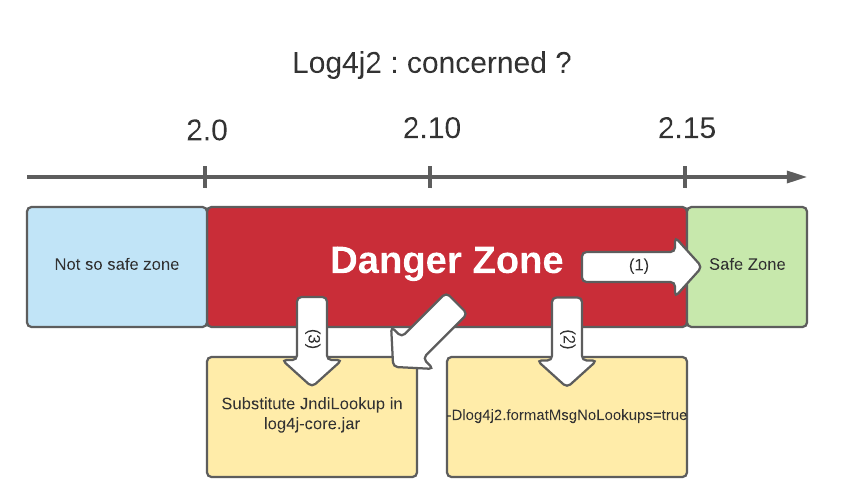
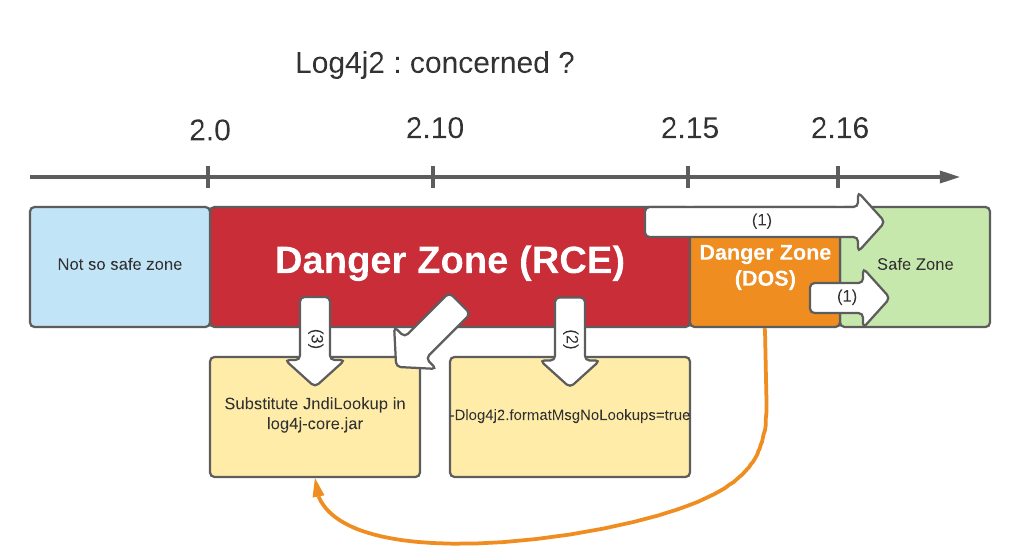
Update for CVE-2021-45046

diff --git a/_posts/2021-12-13-log4shell-tldr.md b/_posts/2021-12-13-log4shell-tldr.md
@@ -13,7 +13,14 @@ img_url: /images/2021-12-13-log4shell.png
 ---
 ## Context
 
-The context is quite simple, on December 9, 2021 a [CVE rated 10 on 10](https://cve.mitre.org/cgi-bin/cvename.cgi?name=CVE-2021-44228) was released about the Log4j2 library which is a widely used logging library in the Java ecosystem. And as the Java ecosystem is huge, well it's a huge vulnerability that allows to take control of your server with just one request. Plenty of resources are available (look at the end of this post), and here I just want to give a quick remediation guide based on your situation.
+The context is quite simple, on December 9th 2021 a [CVE rated 10 on 10](https://cve.mitre.org/cgi-bin/cvename.cgi?name=CVE-2021-44228) was released about the Log4j2 library which is a widely used logging library in the Java ecosystem. And as the Java ecosystem is huge, well it's a huge vulnerability that allows to take control of your server with just one request. Plenty of resources are available (look at the end of this post), and here I just want to give a quick remediation guide based on your situation.
+
+
+<div class="admonition note">
+<p class="admonition-title">Note</p>
+<p>On December 14th 2021 a new [CVE-2021-45046](https://cve.mitre.org/cgi-bin/cvename.cgi?name=CVE-2021-45046) introduced by the changes on log4j 2.15 was discovered. I updated this post accordingly.</p>
+</div>
+
 
 ## Step 1 : Do I Use Log4j ? And What Version ?
 
@@ -38,8 +45,8 @@ A diagram is always better than a long explanation:
 
 If you're in the danger zone, then you need to escape as quickly as possible by choosing one of the possible solutions, in order:
 
-1. Migrate to `log4j` >= 2.15
-2. Launch your application with the Java option: `-Dlog4j2.formatMsgNoLookups=true`
+1. Migrate to `log4j` >= 2.16
+2. if 2.10 <= version < 2.15 Launch your application with the Java option: `-Dlog4j2.formatMsgNoLookups=true`. If you are on log4j 2.15, then this fix doesn't prevent the possible DOS (CVE-2021-45046).
 3. Remove the `JndiLookup` class in the `log4j` jar with an empty implementation : `zip -q -d log4j-core-*.jar org/apache/logging/log4j/core/lookup/JndiLookup.class`
 
 
@@ -76,6 +83,7 @@ done
 
 ## References
 - [CVE-2021-44228](https://cve.mitre.org/cgi-bin/cvename.cgi?name=CVE-2021-44228)
+- [CVE-2021-45046](https://cve.mitre.org/cgi-bin/cvename.cgi?name=CVE-2021-45046)
 - Longer explanation : https://www.lunasec.io/docs/blog/log4j-zero-day/
 - JNDI injections in Java : https://www.veracode.com/blog/research/exploiting-jndi-injections-java
 - Java Unmarshaller security: https://github.com/mbechler/marshalsec
